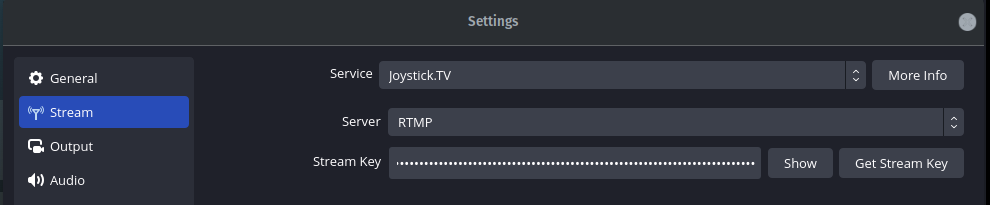
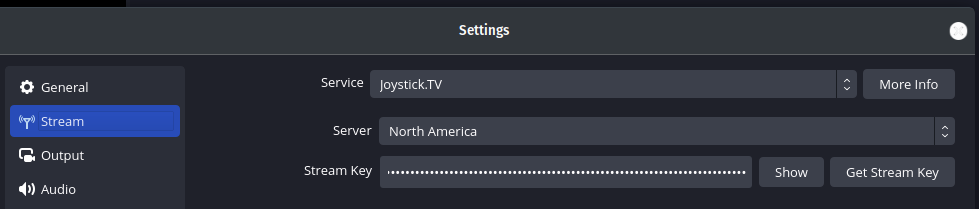
Updating some recommended settings and troubleshooting tips (#49)

diff --git a/live_streaming.md b/live_streaming.md
@@ -116,8 +116,11 @@ try some more advanced settings for even better performance.
 
 1. Open your OBS settings, and select the "Stream" tab
 1. Select `Joystick.TV` as the service.
+1. Select the server region nearest to your location (we are adding more servers later)
 1. Your stream key is located in your Joystick [stream settings](https://joystick.tv/stream-settings)
 ![OBS Service Setup](/assets/obs-setup-stream-service.png)
+
+> If your version of OBS shows "RTMP" for Server, this is the old North American server. To use another server, select "Custom" from the Service list, and enter in the Server URL from your Joystick "Stream Settings" page.
 
 1. Select the "Video" tab.
 1. Set your "Base (Canvas) Resolution" to your monitor's screen size.
@@ -125,6 +128,11 @@ try some more advanced settings for even better performance.
 1. Set "Downscale Filter" to `Lanczos`
 1. Set "Common FPS Values" to `30`.
 ![OBS Video Setup](/assets/obs-setup-video-settings.png)
+
+1. Select the "Audio" tab.
+1. Set your "Sample Rate" to `48 kHz`.
+1. Set your "Channels" to `Stereo`.
+![OBS Aduio Setup](/assets/obs-setup-audio-settings.png)
 
 1. Select the "Output" tab.
 1. Set "Output Mode" to `Simple`
@@ -414,8 +422,9 @@ SplitCam is the least customizeable option out of all of them. It's very easy to
 
 ## Troubleshooting Streaming
 
-If you are currently having trouble connecting, here are a few things you can check:
+If you are currently having trouble connecting, or experiencing a high delay in your stream, here are a few things you can check:
 
+* Run a [Speed Test](https://www.speedtest.net/). Is your ping under 15ms and your upload over 15Mbps?
 * Check your Bitrate under “Output”. Set it between 2500Kbps – 8500Kbps
 * If you’re set to 60fps, give 30fps a try. We do support 60, but if your connection is low, dropping to 30 may help.
 * Try setting your Encoder to x264. Hardware encoding can be tricky if you’re not familiar with it.
